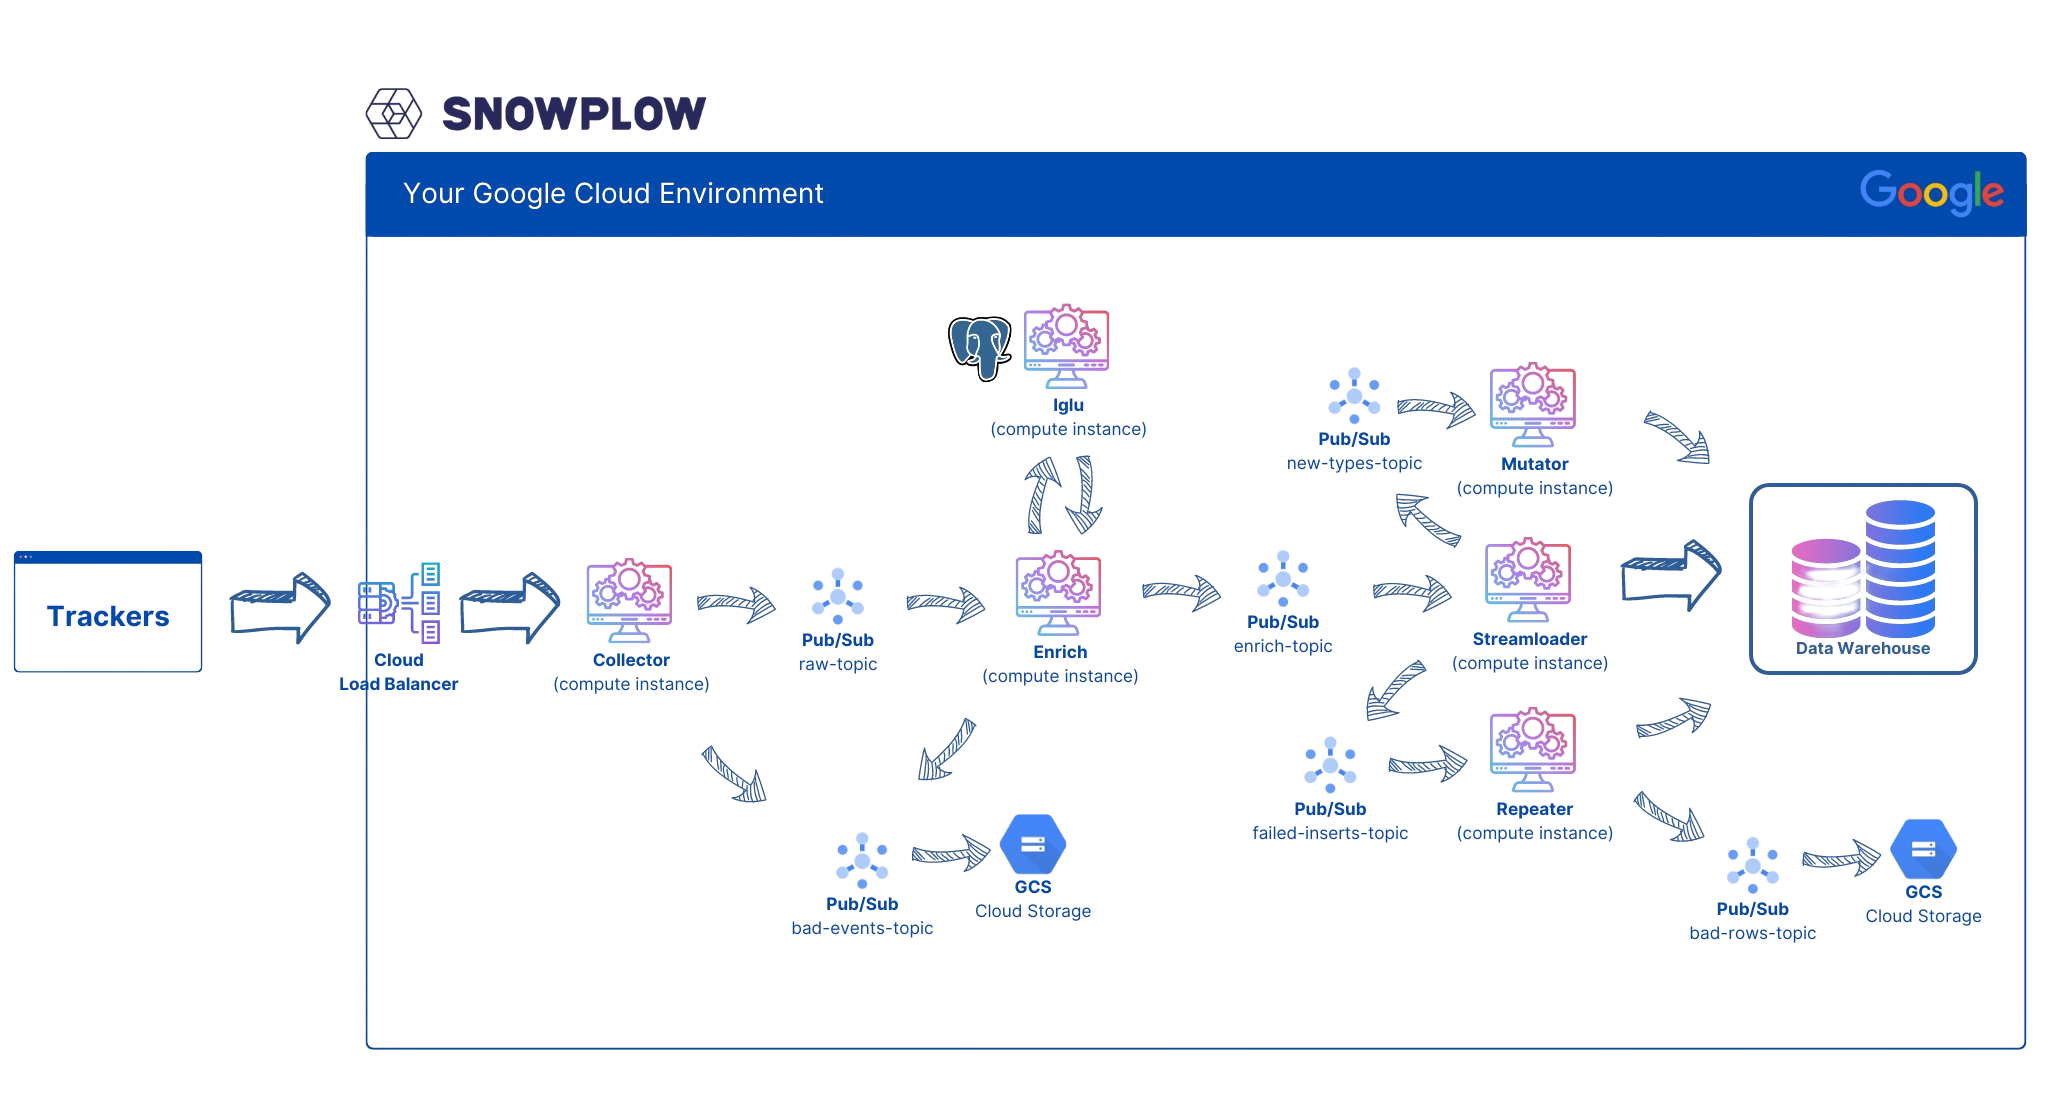
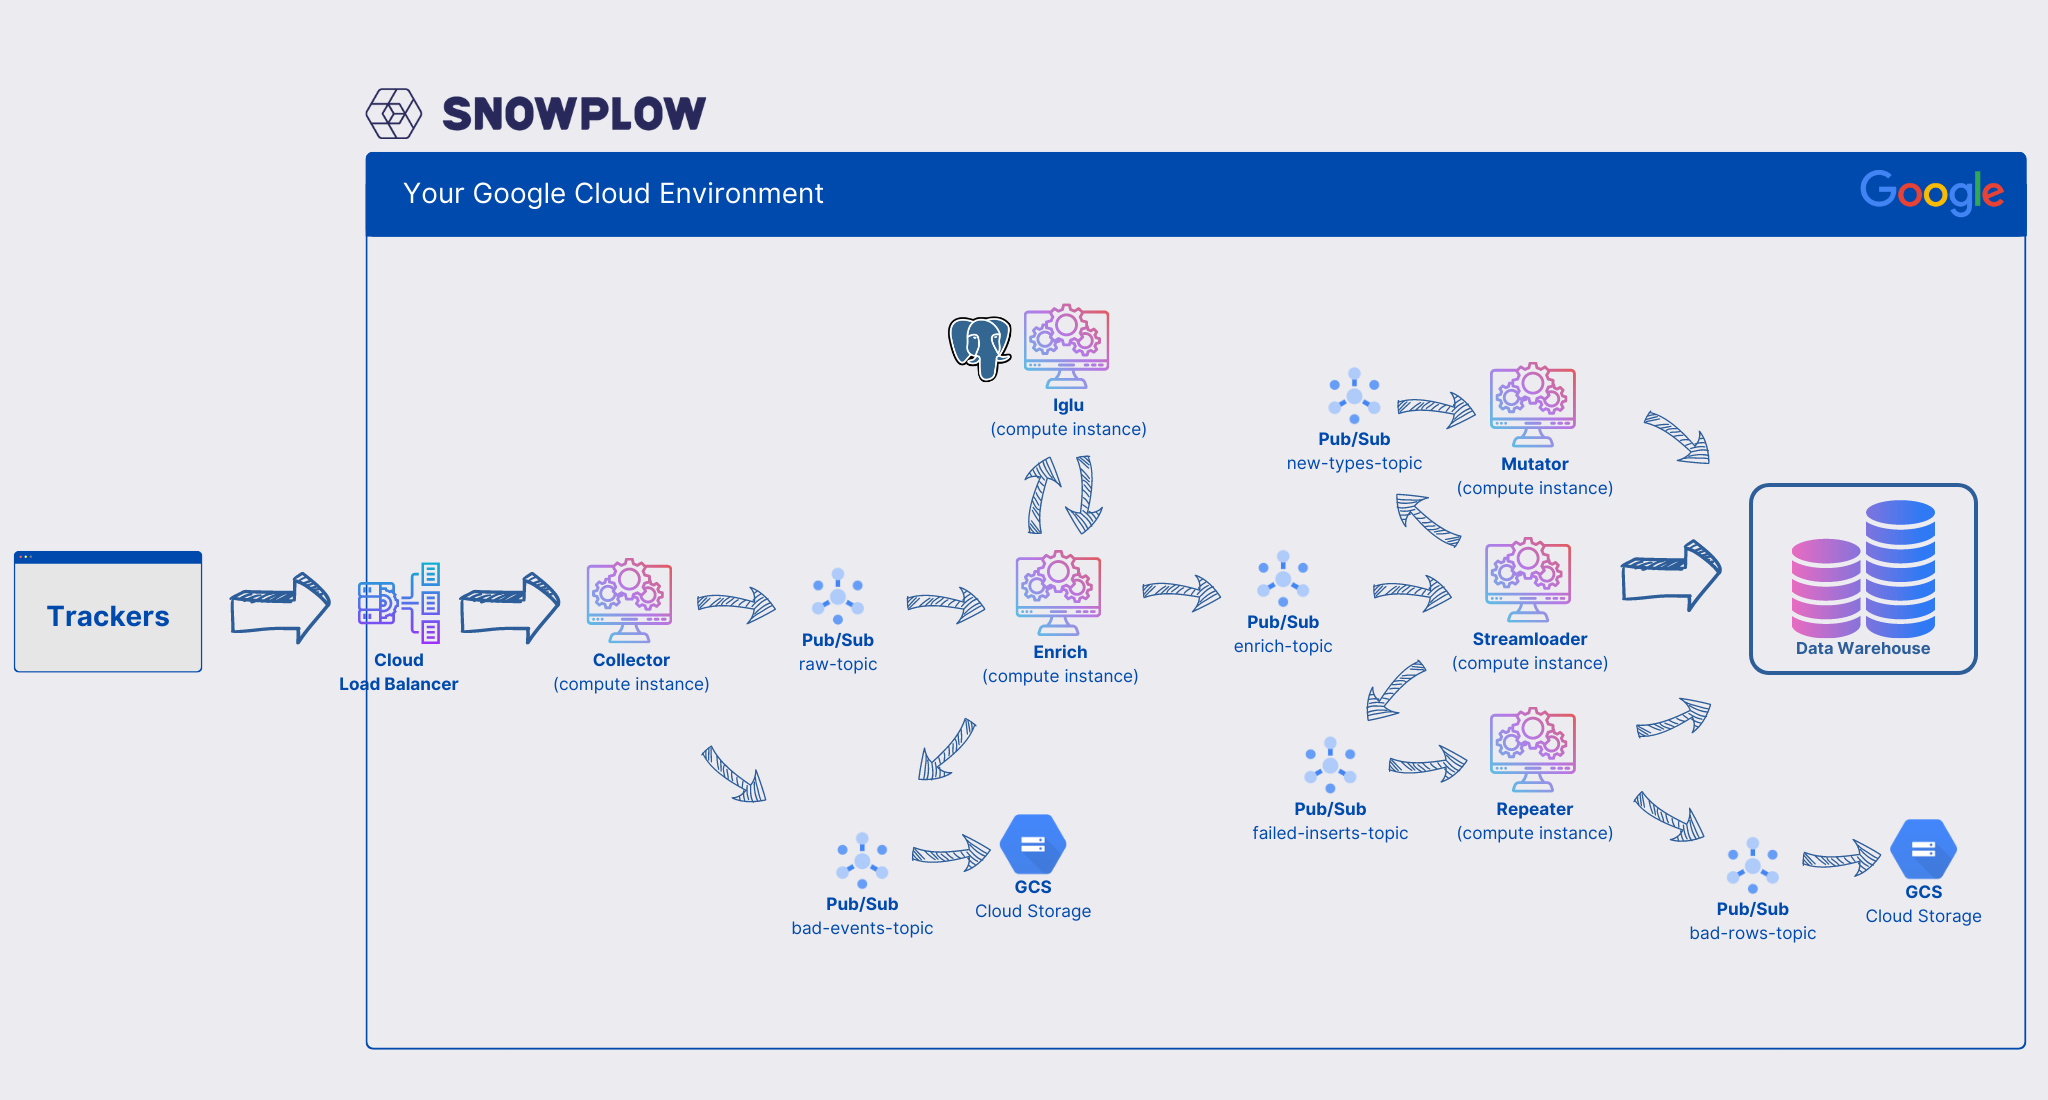
Pushing latest updates.

diff --git a/_includes/head.html b/_includes/head.html
@@ -12,6 +12,7 @@
   <link rel="stylesheet" href="{{ 'public/css/poole.css' | absolute_url }}" />
   <link rel="stylesheet" href="{{ 'public/css/syntax.css' | absolute_url }}" />
   <link rel="stylesheet" href="{{ 'public/css/hyde.css' | absolute_url }}" />
+  <link rel="stylesheet" href="{{ 'public/css/style.css' | absolute_url }}" />
   <link
     rel="stylesheet"
     href="http://fonts.googleapis.com/css?family=PT+Sans:400,400italic,700|Abril+Fatface"
@@ -28,4 +29,31 @@
     title="RSS"
     href="{{ '/atom.xml' | absolute_url }}"
   />
+  <script>
+    document.addEventListener("DOMContentLoaded", function () {
+      // Get all links to open the popup
+      const imageLink = document.querySelector('a[href="#popup-image"]');
+      const popup = document.querySelector("#popup-image");
+      const close = document.querySelector(".popup .close");
+
+      // Show the popup when the image link is clicked
+      imageLink.addEventListener("click", function (e) {
+        e.preventDefault();
+        popup.style.display = "block";
+      });
+
+      // Hide the popup when the close button is clicked
+      close.addEventListener("click", function (e) {
+        e.preventDefault();
+        popup.style.display = "none";
+      });
+
+      // Close the popup when clicking outside of the image
+      window.addEventListener("click", function (e) {
+        if (e.target === popup) {
+          popup.style.display = "none";
+        }
+      });
+    });
+  </script>
 </head>

diff --git a/public/css/style.css b/public/css/style.css
@@ -1,0 +1,33 @@
+/* Style for the popup */
+.popup {
+  display: none;
+  position: fixed;
+  z-index: 1000;
+  left: 0;
+  top: 0;
+  width: 100%;
+  height: 100%;
+  background-color: rgba(0, 0, 0, 0.8); /* Black background with opacity */
+}
+
+/* Popup content (image) */
+.popup-content {
+  margin: auto;
+  display: block;
+  max-width: 80%;
+  max-height: 80%;
+  position: absolute;
+  top: 50%;
+  left: 50%;
+  transform: translate(-50%, -50%);
+}
+
+/* Close button */
+.close {
+  position: absolute;
+  top: 20px;
+  right: 35px;
+  color: white;
+  font-size: 40px;
+  text-decoration: none;
+}

diff --git a/_posts/2024-09-28-deploying-snowplow-1.md b/_posts/2024-09-28-deploying-snowplow-1.md
@@ -32,4 +32,36 @@ In the first part we briefly go over the architecture. Explain types of services
 
 Perhaps it's the easier to start with the reference architecture for Snowplow deployment on GCP. Below is the diagram originally from Snowplow:
 
-![Snowplow Pipline Architecture](/public/images/Snowplow_Pipeline_architecture.png)
+<a href="#popup-image">
+  <img src="/public/images/Snowplow_Pipeline_architecture_nobg.png" alt="Snowplow Pipline Architecture">
+</a>
+
+<div id="popup-image" class="popup">
+  <a href="#" class="close">&times;</a>
+  <img class="popup-content" src="/public/images/Snowplow_Pipeline_architecture.png" alt="Large Image">
+</div>
+
+Based on the diagram, we need to deploy six types of services on our kubernetes cluster:
+
+1. Collector
+2. Enrich
+3. Streamloader
+4. Mutator
+5. Repeater
+6. Iglu
+
+We also need to need six PubSub topics:
+
+1. raw-topic -- called **snowplow-raw** in our implementation
+2. bad-events-topic -- called **snowplow-bad-1**
+   - we connect this subscription directly to GCS via a subsciption called **snowplow-bad-1-gcs**
+
+3. enrich-topic -- called **snowplow-enriched**
+4. new-types-topic -- called **snowplow-bq-loader-server-types**
+5. failed-inserts-topic -- called **snowplow-bq-loader-server-failed-inserts**
+6. bad-rows-topic -- called **snowplow-bq-bad-rows**
+
+In addition we need:
+
+1. Kubernetes ingress (Load Balancer)
+2. PostgreSQL for Iglu Server
